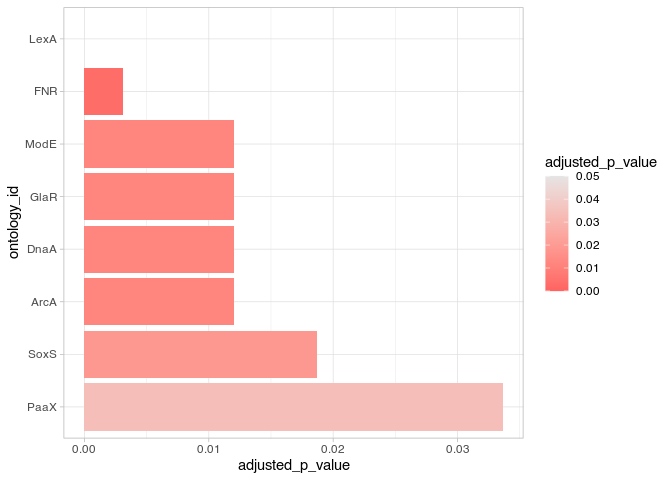
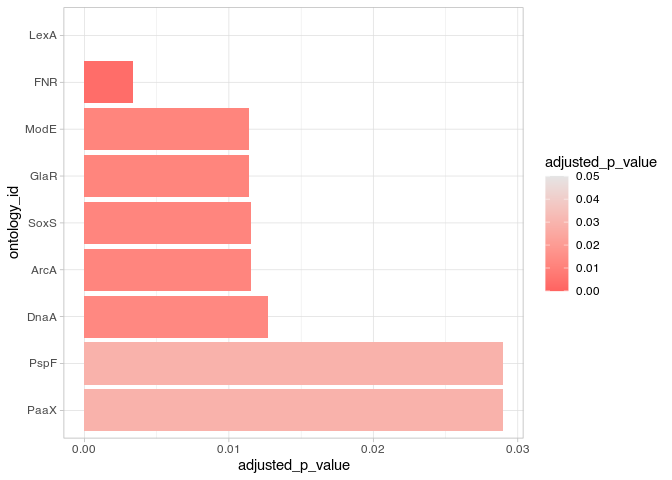
lollipop plot function update

diff --git a/README.md b/README.md
@@ -277,6 +277,14 @@ tf_gmt_filtered <- filter_ontology(gmt = tf_gmt,
                                    max_nr_of_elements = 400)
 ```
 
+It is possible to write the filtered ontology as a GMT file using the
+`write_gmt` function.
+
+``` r
+write_gmt(gmt = tf_gmt_filtered, 
+          file = "Transcription_factor_RegulonDB_Escherichia_coli_GeneSymbol_filtered.gmt")
+```
+
 **Results:**
 
 We can now determine the number of transcription factors remaining in
@@ -433,14 +441,14 @@ ora_results %>%
 |:------------|:--------------|-------------------------------:|----------------------------------:|----------:|----------:|
 | FNR         | FNR           |                             26 |                               259 | 0.0000003 | 0.0000000 |
 | LexA        | LexA          |                             14 |                                53 | 0.0000000 | 0.0000000 |
-| SoxS        | SoxS          |                              7 |                                37 | 0.0001615 | 0.0028667 |
-| DnaA        | DnaA          |                              4 |                                13 | 0.0006281 | 0.0048333 |
-| Rob         | Rob           |                              5 |                                21 | 0.0004717 | 0.0048800 |
-| FadR        | FadR          |                              5 |                                20 | 0.0003692 | 0.0053250 |
-| NsrR        | NsrR          |                              8 |                                64 | 0.0010478 | 0.0068714 |
-| ArcA        | ArcA          |                             12 |                               148 | 0.0032001 | 0.0202250 |
-| IHF         | IHF           |                             14 |                               205 | 0.0070758 | 0.0452500 |
-| MarA        | MarA          |                              5 |                                37 | 0.0066068 | 0.0474111 |
+| SoxS        | SoxS          |                              7 |                                37 | 0.0001615 | 0.0027000 |
+| DnaA        | DnaA          |                              4 |                                13 | 0.0006281 | 0.0050000 |
+| Rob         | Rob           |                              5 |                                21 | 0.0004717 | 0.0053200 |
+| FadR        | FadR          |                              5 |                                20 | 0.0003692 | 0.0058750 |
+| NsrR        | NsrR          |                              8 |                                64 | 0.0010478 | 0.0071571 |
+| ArcA        | ArcA          |                             12 |                               148 | 0.0032001 | 0.0202625 |
+| IHF         | IHF           |                             14 |                               205 | 0.0070758 | 0.0450800 |
+| MarA        | MarA          |                              5 |                                37 | 0.0066068 | 0.0477444 |
 
 #### Visualizing the ORA Result
 
@@ -638,7 +646,7 @@ gsea_results %>%
   filter(adjusted_p_value < 0.05) %>% 
   # the number of such rows
   nrow()
-#> [1] 8
+#> [1] 9
 ```
 
 And inspect the significant results:
@@ -653,14 +661,15 @@ gsea_results %>%
 
 | ontology_id | ontology_name | nr_common_genes_ontology_set | nr_common_genes_ontology_background |   p_value | adjusted_p_value |
 |:------------|:--------------|-----------------------------:|------------------------------------:|----------:|-----------------:|
-| LexA        | LexA          |                           53 |                                  61 | 0.0000000 |        0.0000032 |
-| FNR         | FNR           |                          259 |                                 302 | 0.0000401 |        0.0030700 |
-| ArcA        | ArcA          |                          148 |                                 180 | 0.0004215 |        0.0120280 |
-| DnaA        | DnaA          |                           13 |                                  14 | 0.0004717 |        0.0120280 |
-| GlaR        | GlaR          |                            3 |                                   5 | 0.0003668 |        0.0120280 |
-| ModE        | ModE          |                           45 |                                  46 | 0.0004489 |        0.0120280 |
-| SoxS        | SoxS          |                           37 |                                  44 | 0.0008564 |        0.0187174 |
-| PaaX        | PaaX          |                           14 |                                  14 | 0.0017580 |        0.0336213 |
+| LexA        | LexA          |                           53 |                                  61 | 0.0000000 |        0.0000041 |
+| FNR         | FNR           |                          259 |                                 302 | 0.0000441 |        0.0033705 |
+| GlaR        | GlaR          |                            3 |                                   5 | 0.0002757 |        0.0114169 |
+| ModE        | ModE          |                           45 |                                  46 | 0.0002985 |        0.0114169 |
+| ArcA        | ArcA          |                          148 |                                 180 | 0.0003896 |        0.0115620 |
+| SoxS        | SoxS          |                           37 |                                  44 | 0.0004534 |        0.0115620 |
+| DnaA        | DnaA          |                           13 |                                  14 | 0.0005816 |        0.0127119 |
+| PaaX        | PaaX          |                           14 |                                  14 | 0.0017028 |        0.0289468 |
+| PspF        | PspF          |                            7 |                                   7 | 0.0016291 |        0.0289468 |
 
 #### Visualizing the GSEA Results
 
